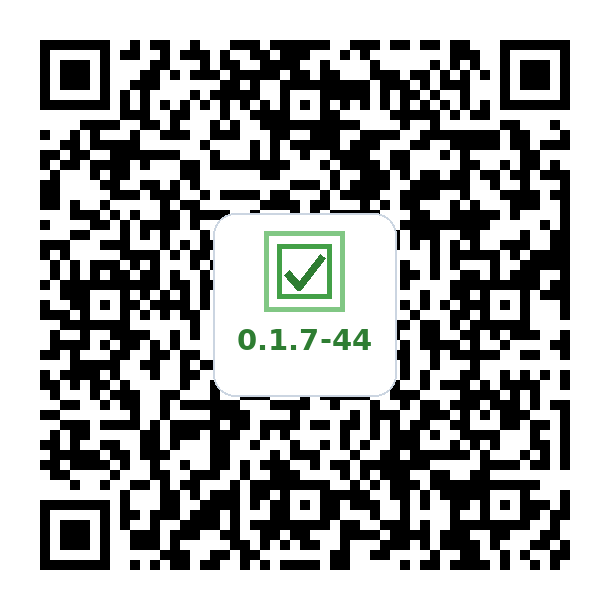
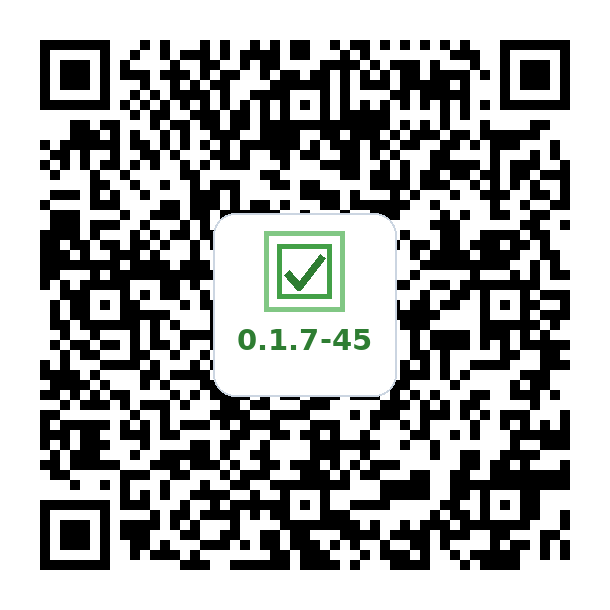
deploy: b73a231ce7adadd3c70e569f8279b68c44fc814e

Changed region(s): [[0.0623, 0.0623, 0.9344, 0.9344], [0.5607, 0.5295, 0.623, 0.5918]]

diff --git a/index.html b/index.html
@@ -209,11 +209,11 @@
           </div>
             <div class="qr-container">
             <div class="qr-label">background-tasking</div>
-            <img src="qr.png" alt="MicroTasking APK QR Code (v0.1.7-44)">
+            <img src="qr.png" alt="MicroTasking APK QR Code (v0.1.7-45)">
             <br>
-            <a href="https://github.com/vemcg/MicroTasking/releases/download/v0.1.7-44/MicroTasking-v0.1.7-44.apk" class="btn" target="_blank" rel="noopener">Download MicroTasking APK (v0.1.7-44)</a>
+            <a href="https://github.com/vemcg/MicroTasking/releases/download/v0.1.7-45/MicroTasking-v0.1.7-45.apk" class="btn" target="_blank" rel="noopener">Download MicroTasking APK (v0.1.7-45)</a>
             <br>
-            <a href="https://github.com/vemcg/MicroTasking/releases/download/v0.1.7-44/MicroTasking-v0.1.7-44.apk" target="_blank" rel="noopener">Open the download again</a>
+            <a href="https://github.com/vemcg/MicroTasking/releases/download/v0.1.7-45/MicroTasking-v0.1.7-45.apk" target="_blank" rel="noopener">Open the download again</a>
           </div>
           </div>
         </li>
